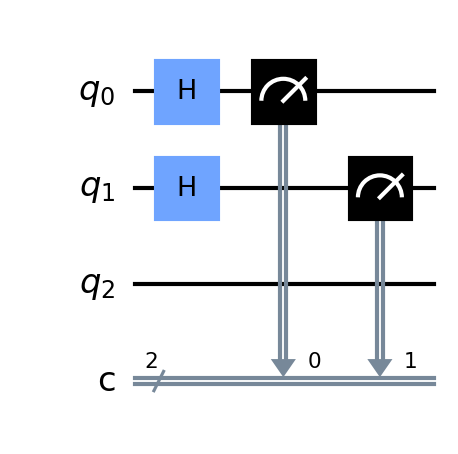
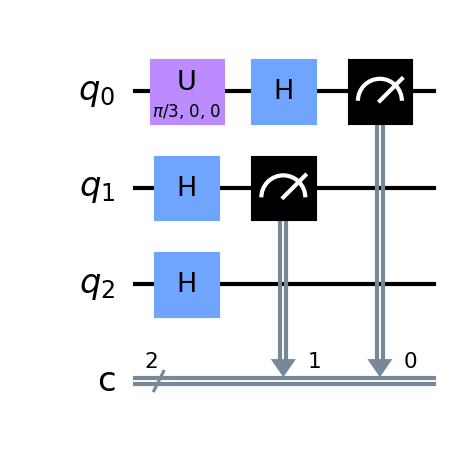
infinite randomness and breakout room banishment

diff --git a/QuantumPokemon.py b/QuantumPokemon.py
@@ -1,34 +1,49 @@
-from Quantum import fiftyPercentAtk, measure, nullify, reflect, twentyFivePercentAtk
+from Quantum import breakout_room_banishment, fiftyPercentAtk, infinite_randomness, measure, nullify, reflect, twentyFivePercentAtk
 from qiskit import QuantumCircuit, QuantumRegister, ClassicalRegister, Aer, execute
 import numpy as np
 import matplotlib.pyplot as plt
-import PyQt6
 from qiskit.visualization import plot_histogram
 from qiskit.quantum_info import Statevector
 
 
-
 move_history_map = { 
     "50%": 10,
-    "25%": 20
+    "25%": 20,
+    "breakout room banishment": 0
 }
 
+def get_atk(types, type_list, player):
+    return types[type_list[player]]["attack"]
+
 def dmg_cnts(measure_results, move_history, first_player):
+    print(measure_results)
     bases = [0, 0]
-    multipliers = []
-    multipliers.append(types[type_list[first_player]]["attack"])
-    multipliers.append(types[type_list[1 - first_player]]["attack"])
+    multipliers = [0,0]
+    multipliers[first_player] = types[type_list[first_player]]["attack"]
+    multipliers[(1 + first_player) % 2] = types[type_list[1 - first_player]]["attack"]
     final_dmg = [0, 0]
     if move_history[-1] == "reflect":
         multipliers[0], multipliers[1] = multipliers[1], multipliers[0]
         bases[0] = move_history_map[move_history[-2]]
     elif move_history[-1] == "nullify":
         bases[1] = move_history_map[move_history[-2]]
+    elif move_history[-1] == "breakout room banishment" or move_history[-2] == "breakout room banishment" :
+        if move_history[-1] == "breakout room banishment":
+            if measure_results[0] == 1:
+                #print("SETTING BANISHED")
+
+                player_skip[1] = True
+        if move_history[-2] == "breakout room banishment":
+            if measure_results[1] == 1:
+                #print("SETTING BANISHED")
+                player_skip[0] = True
     else:
         bases[0] = move_history_map[move_history[-1]]
         bases[1] = move_history_map[move_history[-2]]
+    
     final_dmg[0] = measure_results[0] * bases[0] * multipliers[0]
     final_dmg[1] = measure_results[1] * bases[1] * multipliers[1]
+
     return final_dmg
 
 aux = 2
@@ -36,7 +51,8 @@ atk = 1
 defense = 0
 move_count = 0
 moves = {'a': 10, 'b': 15, 'c': 20, 'd': 25}
-quantum_moves = ['25%', '50%', 'reflect', 'nullify']
+quantum_moves = ['25%', '50%', 'reflect', 'nullify', 'infinite randomness', 'breakout room banishment']
+player_skip = [False, False]
 
 # lightning strike: high chance other player gets hit, low chance you get hit 
 
@@ -69,20 +85,31 @@ qc = QuantumCircuit(3, 2)
 move_history = []
 while health_list[0] > 0 and health_list[1] > 0:
     if move_count > 0 and move_count % 2 == 0:
+        player_skip = [False, False]
+
+        #if results[i] == 1, player i + 1 receives damage or an effect from a move
         results = measure(qc, move_history)
         first_player = 1 - ((move_count % 4) // 2)
         dmgs = dmg_cnts(results, move_history, first_player)
         print("Player " + str(first_player + 1) + " received " + str(dmgs[0]) + " damage")
         print("Player " + str((1 - first_player) + 1) + " received " + str(dmgs[1]) + " damage")
+        print("-------------------------------------------------------------")
         health_list[first_player] -= dmgs[0]
         health_list[1 - first_player] -= dmgs[1]
 
         if health_list[0] <= 0 or health_list[1] <= 0:
             break
-
         qc = QuantumCircuit(3,2)
-    if move_count > 0 and move_count % 4 == 0: # keeps the game fair
+    
+    if move_count > 0 and move_count % 4 == 0: # keeps the game fair by switching which player goes first
         player = 1 - player
+
+    #skipped if breakout room banishment was successful
+    if player_skip[player] == True:
+        print("Player " + str(1 + player) +", your turn was skipped!")
+        player = 1 - player
+        move_count += 1
+        continue
     #select moves
     print("Your health is " + str(health_list[player]))
     print("Your moves are " + str(list(moves.keys())))
@@ -103,7 +130,22 @@ while health_list[0] > 0 and health_list[1] > 0:
         elif move == '25%':
             twentyFivePercentAtk(qc, types[type_list[player]]["attack"], player)
         elif move == 'nullify':
-            nullify(qc, types[type_list[player]]["defense"], player, move_history[-1])
+            inverse_prob = 0
+
+            #infinite randomness cannot be nullified
+            if move_history[-1] != 'infinite randomness':
+                if move_history[-1] == '50%':
+                    inverse_prob = 0.5
+                elif move_history[-1] == '25%':
+                    inverse_prob = 0.25
+                elif move_history[-1] == 'breakout_room_banishment':
+                    inverse_prob =  types[type_list[1 - player]]["attack"] / 10
+                nullify(qc, types[type_list[player]]["defense"], player, inverse_prob)
+        elif move == 'breakout room banishment':
+            breakout_room_banishment(qc, types[type_list[player]]["attack"] / 10, player)
+        elif move == 'infinite randomness':
+            infinite_randomness(qc, move_history_map)
+
         move_history.append(move)
     else:
         print("Your move did " + str(moves[move]) + " damage")
@@ -113,10 +155,13 @@ while health_list[0] > 0 and health_list[1] > 0:
 
     player = 1 - player
     move_count += 1
-    
+
+print("-------------------------------------------------------------")
 if (health_list[0] > 0) :
     print("Player 2 died, Player 1 won!")
 elif (health_list[1] > 0):
     print("Player 1 died, Player 2 won!")
 else: 
     print("You both died, you suck lol!")
+
+

diff --git a/Quantum.py b/Quantum.py
@@ -9,6 +9,18 @@ aux = 2
 #atk = 1
 #defense = 0
 
+def infinite_randomness(qc, move_history_map):
+    qc.h([0,1,2])
+
+    #find a random base dmg count
+    auxCirc = QuantumCircuit(3,3)
+    auxCirc.h([0,1,2])
+    auxCirc.measure([0,1,2], [0,1,2])
+    counts = execute(auxCirc, backend = Aer.get_backend('qasm_simulator'), shots=1).result().get_counts(auxCirc)
+    result = list(counts.keys())[0]
+    random_base = 50 * (int(result, 2) / 8)
+    move_history_map['infinite randomness'] = random_base
+
 def fiftyPercentAtk(qc, multiplier, current_player):
     atk = current_player
     defense = 1 - current_player
@@ -22,25 +34,28 @@ def reflect(qc, probability, current_player):
     defense = current_player
     atk = 1 - current_player
     createUnitary(qc, probability, aux)
+
+    #reflects the attack by swapping attacking and defending qubits
     qc.cswap(aux, atk, defense)
 
-def nullify(qc, probability, current_player, move_to_nullify):
-    if move_to_nullify == '50%':
-        createUnitary(qc, probability, aux)
-        qc.ch(aux, current_player)
-    elif move_to_nullify == '25%':
-        createUnitary(qc, probability, aux)
-        createUnitaryInverseControlled(qc, 0.25, aux, current_player)
+def nullify(qc, probability, current_player, inverse_prob):
+    #nullifies by creating a unitary that is the inverse of the unitary that the
+    #attacker applied
+    createUnitary(qc, probability, aux)
+    createUnitaryInverseControlled(qc, inverse_prob, aux, current_player)
+
+
+def breakout_room_banishment(qc, probability, current_player):
+    createUnitary(qc, probability, 1 - current_player)
+    
 
 
 def measure(qc, move_history):
-    p1_move = move_history[-2]
-    p2_move = move_history[-1]
     qc.measure(range(2), range(2))
     counts = execute(qc, backend = Aer.get_backend('qasm_simulator'), shots=1).result().get_counts(qc)
     result = list(counts.keys())[0]
     qc.draw('mpl', filename='circuit.png')
-    #print(result)
+
     #returning [p1, p2]
     return [int(result[1]), int(result[0])]
 
